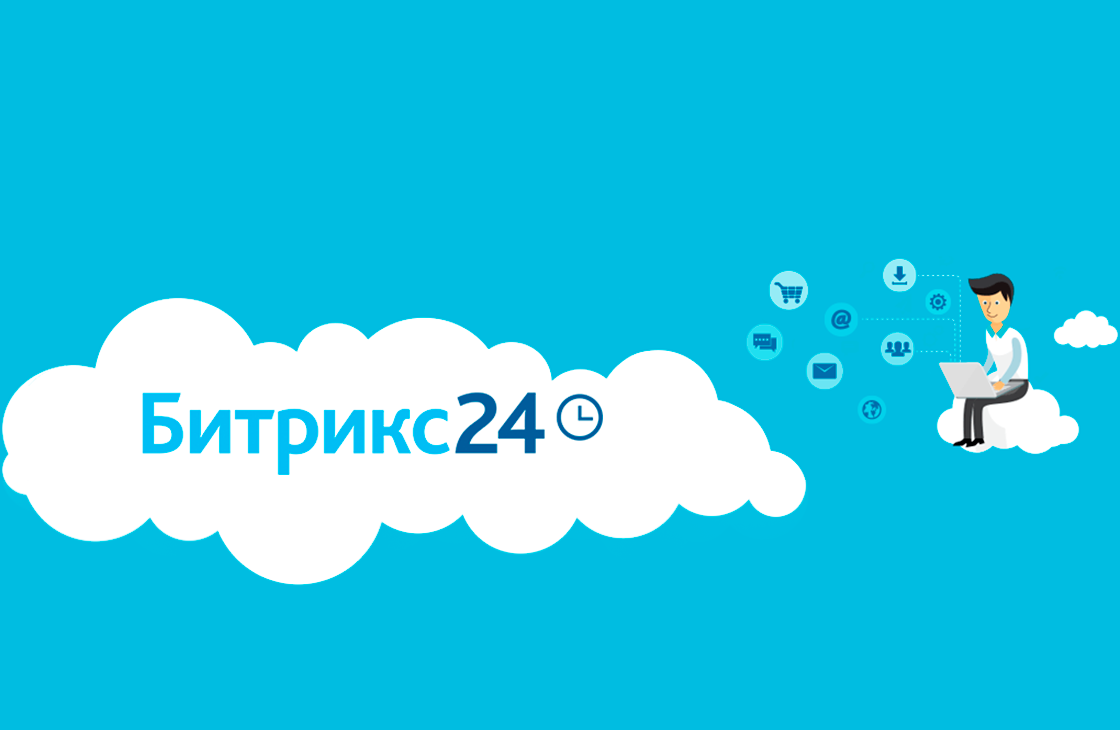
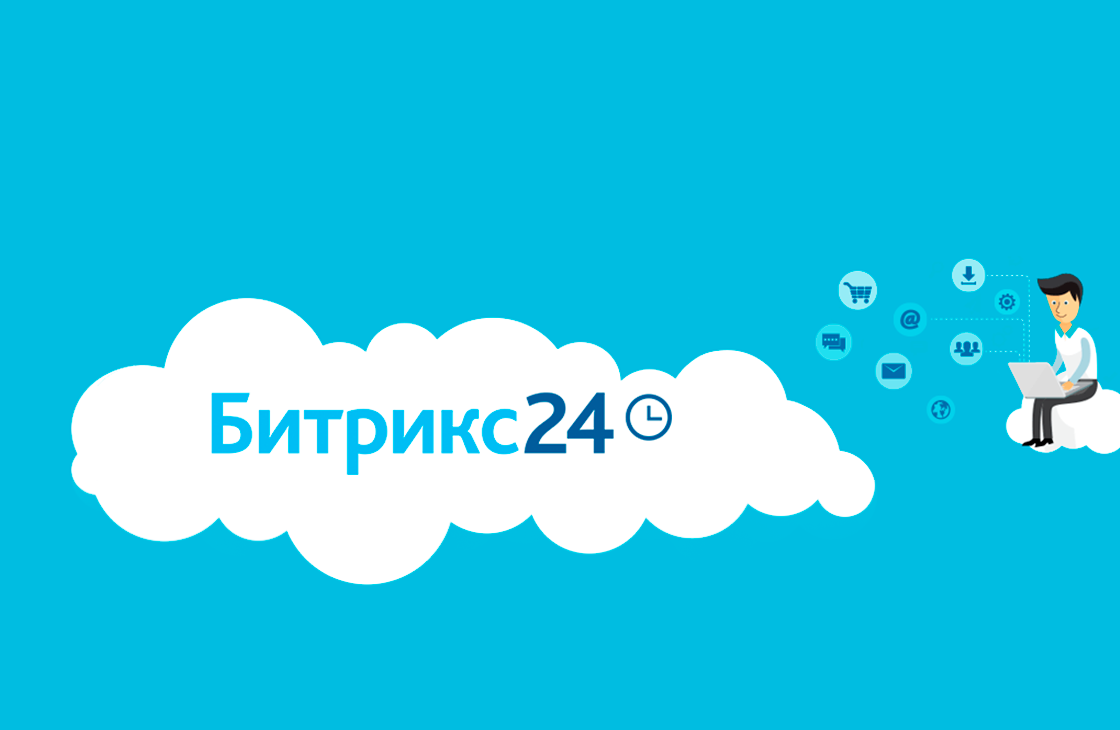
я помогат

Changed region(s): [[0.0, 0.3315, 1.0, 0.8137], [0.6875, 0.3616, 0.7188, 0.4219]]

diff --git a/src/assets/scss/data/_product.scss b/src/assets/scss/data/_product.scss
@@ -30,17 +30,25 @@
 .product__upper {
   height: 198px;
   max-width: 1120px;
+  position: relative;
+  overflow: hidden;
+
   box-sizing: border-box;
-  // border: 1px solid #B3B3B3;
+  outline: 1px solid #B3B3B3;
   border-radius: 12px 12px 0px 0px;
 
 }
 .product__upper-img {
-  width: 100%;
-  height: 198px;
-
-  border-radius: 12px 12px 0px 0px;
-  outline: 1px solid $gray-2;
+  // width: 100%;
+  // height: 198px;
+  height: auto;
+  max-width: 1120px;
+  width: auto;
+  position: absolute;
+  left: 50%;
+  top: 50%;
+  transform: translate(-50%, -50%);
+  
   box-sizing: border-box;
 }
 
@@ -59,10 +67,10 @@
 
   /* BG/White */
 
-  // background: $white;
+  background: $white;
   /* Stroke/Grey */
 
-  // border-width: 0px 1px 1px 1px;
+  border-width: 0px 1px 1px 1px;
   outline: 1px solid $gray-2;
   // border-style: solid;
   // border-color: $gray-2;
